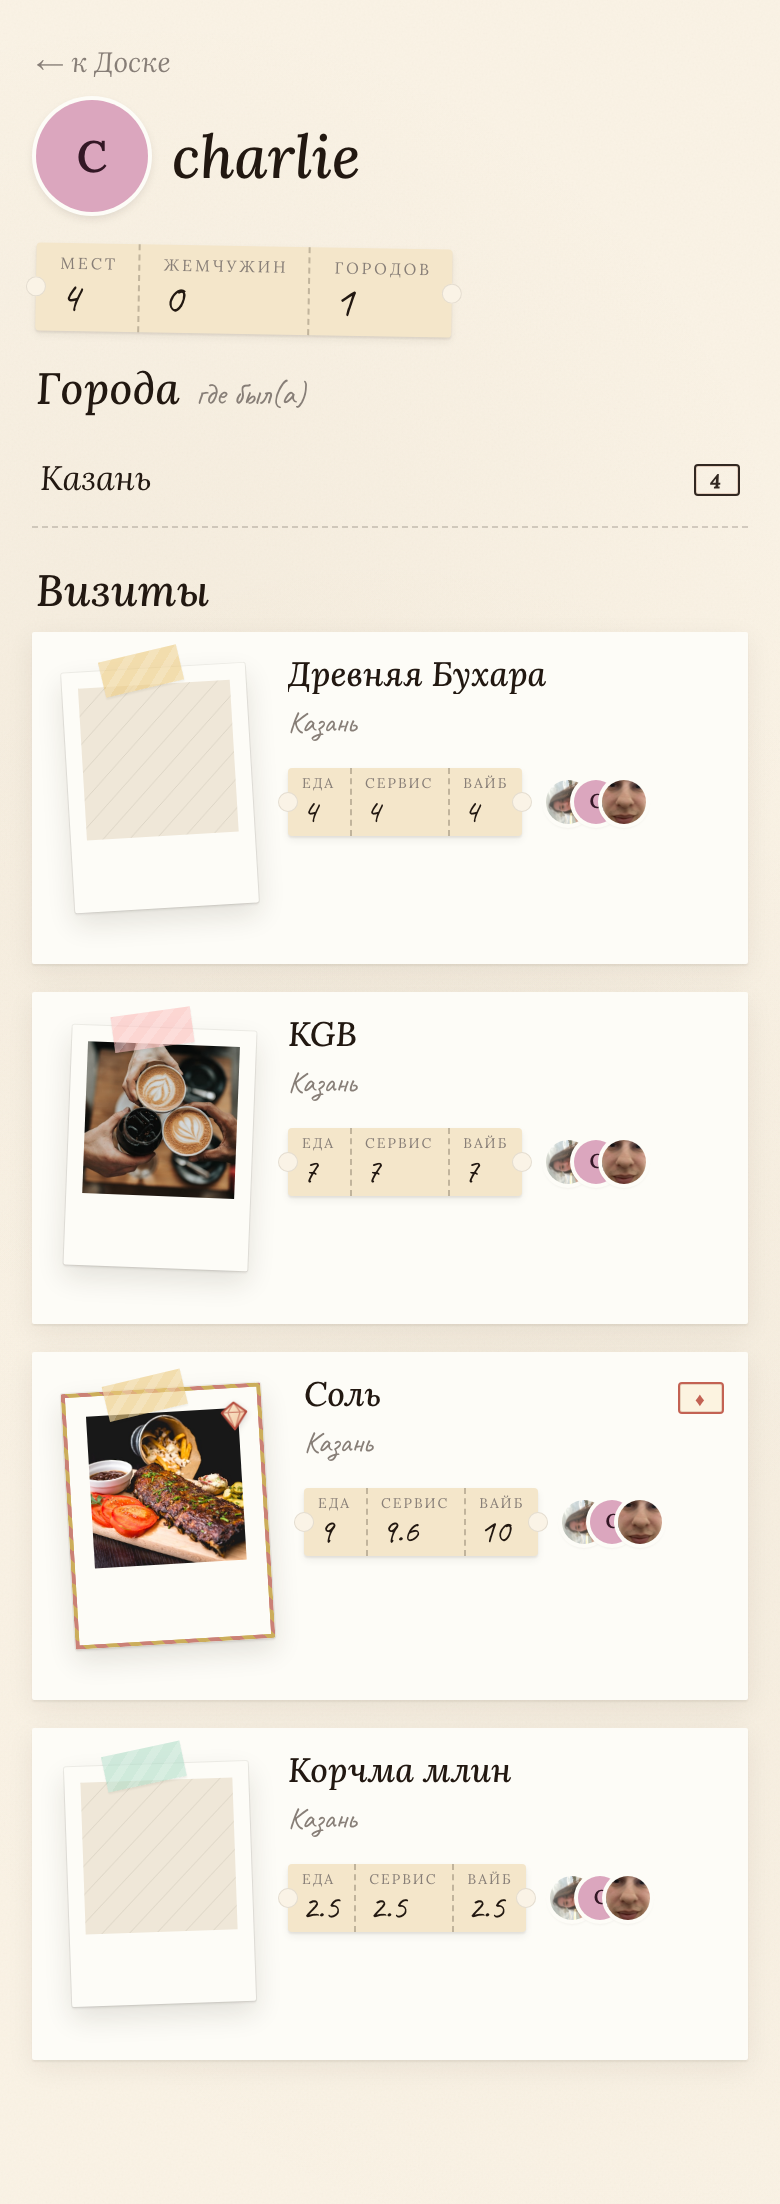
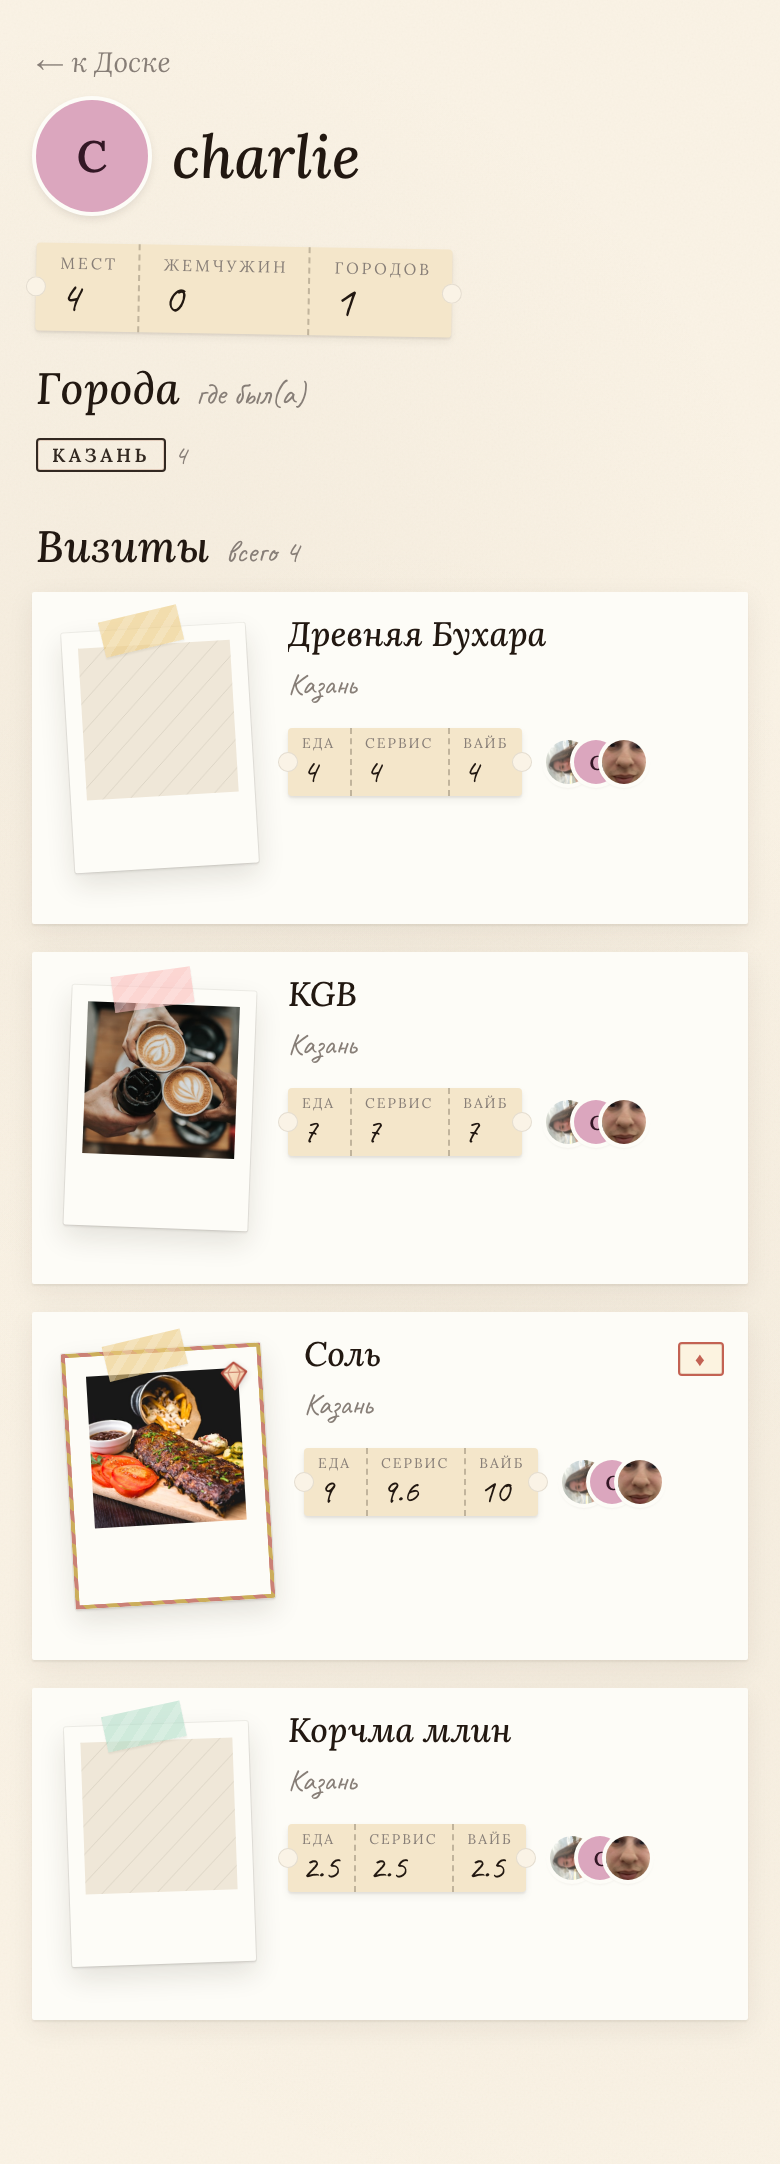
feat(R6.7): B8 Person page reduction — 32k px → 3.5k px
PersonPage.vue переписан по R6 B8:
- Города чипами (city-chips, как в GemsHub B2 и шапке места B3),
  вместо вертикального списка ссылок
- Жемчужины — 2-колоночная grid через ArtifactCard (для безфотных
  автоматом PhotoFreeCard G-layout)
- Визиты — лимит 6 по умолчанию + кнопка «↓ ещё N из всего», открывает
  по 12 за клик. У lamark раньше все 144 ResultCard'а рендерились
  лентой — теперь только при явном раскрытии.

Замер: lamark PersonPage высота с 32000px до 3457px (~10×).

Контроль: screenshots/mobile-09b-person-lamark-top.png (viewport),
mobile-09-person.png (charlie — 4 места, всё видно).

diff --git a/frontend/src/views/PersonPage.vue b/frontend/src/views/PersonPage.vue
@@ -32,37 +32,53 @@
     <section v-if="loading" class="sb-empty">листаем заметки…</section>
 
     <template v-else>
+      <!-- B8 — Города чипами (не вертикальным списком на 30+ строк).
+           Одинаковый словарь со страницами B2 (Gems Hub) и B3 (Place header). -->
       <div v-if="cities.length" class="sb-section-head" style="padding: 0 18px 8px">
         <h2>Города</h2>
         <span class="sub">где был(а)</span>
       </div>
-      <div v-if="cities.length" class="city-list">
+      <div v-if="cities.length" class="city-chips">
         <router-link
           v-for="c in cities"
           :key="c.city"
           :to="`/cities/${encodeURIComponent(c.city)}`"
-          class="city-item"
+          class="city-chip"
         >
-          <span class="city-name">{{ c.city }}</span>
-          <Stamp kind="ink">{{ c.count }}</Stamp>
+          <Stamp kind="ink">{{ c.city }}</Stamp>
+          <span class="chip-count">{{ c.count }}</span>
         </router-link>
       </div>
 
+      <!-- B8 — Жемчужины 2-колоночной сеткой через ArtifactCard
+           (для безфотных автоматом PhotoFreeCard G-layout). -->
       <div v-if="gems.length" class="sb-section-head" style="padding: 18px 18px 8px">
         <h2>Жемчужины</h2>
+        <span class="sub">{{ gemsLabel }}</span>
       </div>
-      <div v-if="gems.length" class="shelf">
-        <ResultCard v-for="p in gems" :key="`gem-${p.id}`" :place="p" />
+      <div v-if="gems.length" class="all-grid">
+        <div v-for="p in gems" :key="`gem-${p.id}`" class="all-cell" :class="cellTiltFor(p)">
+          <ArtifactCard :place="p" />
+        </div>
       </div>
 
-      <div class="sb-section-head" style="padding: 18px 18px 8px">
+      <!-- B8 — Визиты: лимит 6, остаток через «↓ ещё N». При 144 местах
+           страница больше не 32k px, а ~3k px пока юзер не раскроет. -->
+      <div v-if="places.length" class="sb-section-head" style="padding: 18px 18px 8px">
         <h2>Визиты</h2>
+        <span class="sub">{{ visitsLabel }}</span>
       </div>
       <div v-if="places.length === 0" class="sb-empty">
         пока ничего не прикноплено
       </div>
-      <div v-else class="shelf">
-        <ResultCard v-for="p in places" :key="p.id" :place="p" />
+      <div v-else class="visit-shelf">
+        <ResultCard v-for="p in visibleVisits" :key="p.id" :place="p" />
+      </div>
+
+      <div v-if="hiddenCount > 0" class="more-row">
+        <button class="more-btn" type="button" @click="visibleVisitCount += 12">
+          ↓ ещё {{ Math.min(hiddenCount, 12) }} <span v-if="hiddenCount > 12">из {{ hiddenCount }}</span>
+        </button>
       </div>
     </template>
   </div>
@@ -72,6 +88,7 @@
 import { ref, computed, onMounted, watch } from 'vue'
 import { useRoute } from 'vue-router'
 import http from '../api/http'
+import ArtifactCard from '../components/scrapbook/ArtifactCard.vue'
 import ResultCard from '../components/scrapbook/ResultCard.vue'
 import Ticket from '../components/scrapbook/Ticket.vue'
 import Stamp from '../components/scrapbook/Stamp.vue'
@@ -85,15 +102,41 @@ const places = ref([])
 const gems = ref([])
 const cities = ref([])
 const loading = ref(false)
+const visibleVisitCount = ref(6)
 
 const initial = computed(() =>
   (profile.value?.username || '?').slice(0, 1).toUpperCase()
 )
 
+function pluralRu(n, forms) {
+  const mod100 = n % 100
+  if (mod100 >= 11 && mod100 <= 14) return forms[2]
+  const last = n % 10
+  if (last === 1) return forms[0]
+  if (last >= 2 && last <= 4) return forms[1]
+  return forms[2]
+}
+
+const gemsLabel = computed(() => {
+  const n = gems.value.length
+  return `${n} ${pluralRu(n, ['находка', 'находки', 'находок'])}`
+})
+const visitsLabel = computed(() => {
+  const n = places.value.length
+  return `всего ${n}`
+})
+
+const visibleVisits = computed(() => places.value.slice(0, visibleVisitCount.value))
+const hiddenCount = computed(() => Math.max(0, places.value.length - visibleVisitCount.value))
+
+const tilts = ['sb-t-l2', 'sb-t-r1', 'sb-t-l1', 'sb-t-r2']
+const cellTiltFor = (p) => tilts[(p.id ?? 0) % tilts.length]
+
 async function load() {
   const id = route.params.id
   if (!id) return
   loading.value = true
+  visibleVisitCount.value = 6
   try {
     const [u, p, g, c] = await Promise.all([
       http.get(`/users/${id}`),
@@ -169,34 +212,56 @@ watch(() => route.params.id, () => { if (route.params.id) load() })
   line-height: 1.2;
 }
 
-.city-list {
+/* B8 — города чипами */
+.city-chips {
   display: flex;
-  flex-direction: column;
-  padding: 0 16px;
+  flex-wrap: wrap;
+  gap: 8px 10px;
+  padding: 0 18px 4px;
 }
-.city-item {
-  display: flex;
+.city-chip {
+  display: inline-flex;
   align-items: center;
-  justify-content: space-between;
-  padding: 10px 4px;
-  border-bottom: 1px dashed rgba(40, 30, 20, 0.18);
+  gap: 4px;
   text-decoration: none;
-  color: var(--sb-ink);
-  font-family: var(--sb-serif);
-  font-style: italic;
-  font-size: 17px;
-
-  &:hover .city-name { color: var(--sb-terracotta); }
+  color: inherit;
 }
-.city-name {
-  flex: 1;
-  word-break: break-word;
+.chip-count {
+  font-family: var(--sb-hand);
+  font-size: 14px;
+  color: var(--sb-ink-mute);
 }
 
-.shelf {
+/* B8 — 2-колоночная сетка для жемчужин */
+.all-grid {
+  display: grid;
+  grid-template-columns: repeat(2, 1fr);
+  gap: 28px 14px;
+  padding: 14px 16px 12px;
+}
+.all-cell {
+  min-width: 0;
+}
+
+.visit-shelf {
   display: flex;
   flex-direction: column;
   gap: 14px;
   padding: 0 16px;
+}
+
+.more-row {
+  text-align: center;
+  padding: 14px 0 24px;
+}
+.more-btn {
+  background: none;
+  border: none;
+  font-family: var(--sb-hand);
+  font-size: 17px;
+  color: var(--sb-ink-soft);
+  cursor: pointer;
+  padding: 6px 10px;
+  &:hover { color: var(--sb-terracotta); }
 }
 </style>

diff --git a/spec/R6_DESIGNER_REVIEW.md b/spec/R6_DESIGNER_REVIEW.md
@@ -244,6 +244,29 @@ if (total > 0 && n / total < LOVE_MIN_SHARE) return ''
 
 ---
 
+## R6.7 — B8 Person page reduction (2026-05-17)
+
+**До:** у `lamark` (144 места) `PersonPage.vue` рендерил **~32000px** высоты. Все 144 визита одной вертикальной лентой ResultCard. Города и жемчужины — тоже сверху списком.
+
+**После:** **3457px** — в ~10 раз короче.
+
+`PersonPage.vue` переписан:
+
+1. **Города** — `city-chips` flex-wrap (как в B2 GemsHub и B3 place header). Один словарь визуальных элементов на всё приложение.
+2. **Жемчужины** — 2-колоночная grid через `ArtifactCard`. Для без фото автоматом `PhotoFreeCard` G-layout. Чередующиеся cell-tilt.
+3. **Визиты** — лимит **6** по умолчанию + кнопка «↓ ещё N из всего» (раскрывает по 12). При 144 местах юзер не платит за рендер 144 ResultCard'ов пока не нажмёт.
+
+**Контроль:**
+- `screenshots/mobile-09b-person-lamark-top.png` — viewport-only Lamark'a (144 места).
+- `screenshots/mobile-09-person.png` — Charlie (4 места). У него лимит не задействован — все 4 видны.
+
+**Что осталось от R6:**
+- D1 рефактор ArtifactCard, D2/D3/D4 структурные.
+- R5-Q4/Q5/Q6 мелочи.
+- Сидинг 25-30 разнообразных fake-данных — единственный блокер для показа кругу.
+
+---
+
 ## A. Критическое — скрапбук без фото перестаёт быть скрапбуком
 
 **Это приоритет 0. Пока не починим — на доске пустые клетки, и приложение читается как сырое. Можно сделать всё остальное идеально, но если 90% полароидов остаются пустыми — скрапбук-метафора не работает, и весь концепт-арт зря.**

diff --git a/spec/NEXT_SESSION.md b/spec/NEXT_SESSION.md
@@ -81,17 +81,17 @@ node shot-v3-boards.mjs                          # 6 артбордов v3
 - ✅ **D5 — `.onboarding-cta` снизу Доски удалён.** Один призыв (баннер сверху + PinButton) сильнее двух.
 - ✅ **B1 — Город как путеводитель.** `CityPage.vue` переделан по эталону `v3/02-city-guide.png`: серифа-имя + рукописная meta-строка `N мест · M жемчужин · из круга K`, секция «Жемчужины {Город}» горизонтальным shelf из 3 крупных полароидов с tape (наклоны −3°/+2°/−1.5°), бумажная плашка «ЦИТАТА ОТ КРУГА» с самым длинным `top_review_comment` мест города, заголовок «Все N» и компактный список. Мини-карта города пока опущена (требует Yandex bootstrap фильтра).
 - ✅ **B2 — Жемчужины-сокровищница.** `GemsHub.vue` переделан по эталону `v3/03-gems-hub.png`: «Жемчужины» крупно с ромбом + подзаголовок `N в M городах`, секция **«САМАЯ ПЕРВАЯ»** с крупным полароидом и историей `username · дата` + `подтвердили: ...`, города чипами (`<Stamp ink> + count + ◆`), ряд аватарок «Кто отмечал», 2-колоночная сетка «Все жемчужины» через `ArtifactCard` (для безфотных — `PhotoFreeCard` G-layout).
-- 📸 Контроль: `screenshots/mobile-03b-board-expanded.png` (доска без overflow), `screenshots/mobile-10b-place-header.png` (шапка), `screenshots/mobile-06b-profile-header.png` (профиль), `screenshots/mobile-14b-share.png` (share), `screenshots/mobile-08b-city-izhevsk.png` (Город), `screenshots/mobile-07b-gems-top.png` (Gems Hub viewport).
+- ✅ **B8 — Person page reduction.** Раньше `lamark` (144 места) рендерил **~32000px**. Сейчас **3457px** — в ~10 раз короче. Города — чипами вместо вертикального списка (`КАЗАНЬ 56 · НИЖНИЙ НОВГОРОД 55 · ИЖЕВСК 33`). Жемчужины — 2-колоночная сетка через ArtifactCard. Визиты — лимит 6 по умолчанию + кнопка «↓ ещё N» (раскрывает по 12 за клик). Раньше все 144 рендерились без пагинации.
+- 📸 Контроль: `screenshots/mobile-09b-person-lamark-top.png` (lamark viewport), `screenshots/mobile-09-person.png` (charlie — 4 места, всё видно), `screenshots/mobile-07b-gems-top.png` (Gems Hub), `screenshots/mobile-08b-city-izhevsk.png` (Город), `screenshots/mobile-10b-place-header.png` (шапка), `screenshots/mobile-06b-profile-header.png` (профиль), `screenshots/mobile-14b-share.png` (share), `screenshots/mobile-03b-board-expanded.png` (доска).
 
 ## Что делать в первую очередь (следующий раунд)
 
 В приоритетном порядке (полный список — `R6_DESIGNER_REVIEW.md` → Приоритеты):
 
 1. **Сидинг 25–30 fake мест с разнообразием** — без этого CityPage Казани (122 места, 0 фото и 0 цитат) выглядит пусто на скринах.
-2. **Person page reduction-strategy (B8).** Группировать lamark'овские 144 места по городам и жемчужинам, не лентой.
-3. **R5-Q4/Q5/Q6** — мелочи: tilt на wishlist, «тапни» fallback для video, разделитель «не пробовала».
-4. **Рефактор `ArtifactCard.vue` (D1).**
-5. **D2-D4 структурные** — priority full-width, dense-flow, kruzhok-miss телеметрия.
+2. **R5-Q4/Q5/Q6** — мелочи: tilt на wishlist, «тапни» fallback для video, разделитель «не пробовала».
+3. **Рефактор `ArtifactCard.vue` (D1).** Разнести на `ArtifactPolaroid` / `PhotoFreeCard` / `KruzhokStack` + тонкий роутер.
+4. **D2-D4 структурные** — priority full-width (gem > video > первый), убрать `grid-auto-flow:dense` или закрепить композицию, kruzhok-miss телеметрия.
 
 > ⚠️ Заметка о P0: оригинальный план «SQL COALESCE не работает» оказался неверным. SQL работает; проблема была в данных. Если у будущей сессии возникнет такая же гипотеза — проверять данные SQL'ом до правки кода. См. `R6_DESIGNER_REVIEW.md` секция R6.1.
 